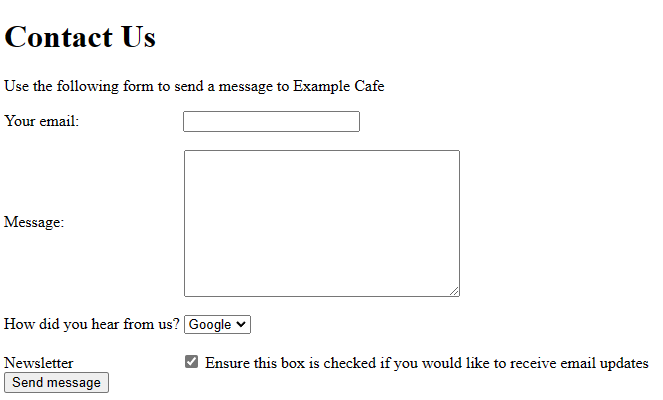
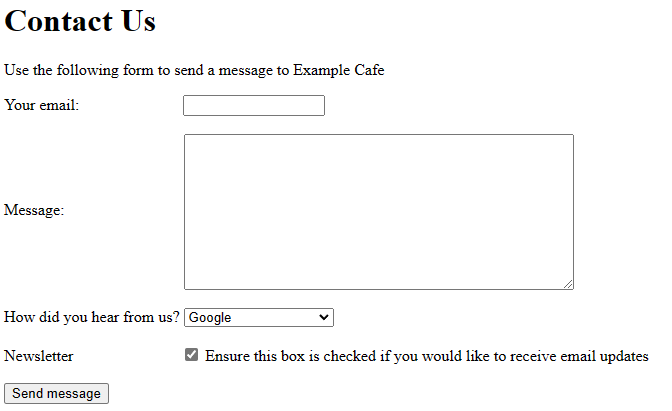
Fix Bai14.html + Fix hinh anh minh chung Bai14.png

diff --git a/DangPhamThienKhai/Tuan01-02/Bai14.html b/DangPhamThienKhai/Tuan01-02/Bai14.html
@@ -5,15 +5,17 @@
         <body>
             <h1>Contact Us</h1>
             <p>Use the following form to send a message to Example Cafe</p>
-            <label for="" > Your email: &emsp;&emsp;&emsp;&emsp;&emsp;&emsp;</label> <input type="text"><br><br>
+            <label for="" > Your email: &emsp;&emsp;&emsp;&emsp;&emsp;&emsp;</label> <input type="text" size="15"><br><br>
             <label for="">Message: &emsp;&emsp;&emsp;&emsp;&emsp;&emsp;&emsp;
-                <textarea style="vertical-align: middle;"></textarea>
+                <textarea style="vertical-align: middle;" rows="10" cols="50"></textarea>
             </label><br><br>
             <label for="">How did you hear from us?</label>
-                <select>
-                    <option value="Google">Google</option>
+                <select style="width: 150px;">
+                    <option>Google</option>
                 </select><br><br>
-            <label for="">Newsletter &emsp;&emsp;&emsp;&emsp;&emsp;&emsp;&nbsp;</label> <input type="checkbox" name="" id="" checked> <label for="">Ensure this box is checked if you would like to receive email updates</label><br><br>
+            <label for="">Newsletter &emsp;&emsp;&emsp;&emsp;&emsp;&emsp;&nbsp;</label>
+            <input type="checkbox" name="" id="" checked style="">
+            <label for="">Ensure this box is checked if you would like to receive email updates</label><br><br>
             <input type="submit" value="Send message">
         </body>
     </head>

diff --git a/DangPhamThienKhai/Tuan01-02/Bai15.html b/DangPhamThienKhai/Tuan01-02/Bai15.html
@@ -3,7 +3,16 @@
     <head>
         <meta charset="UTF-8">
         <body>
-            
+            <h1>Contact Us</h1>
+            <fieldset>
+                <legend>Your message:</legend>
+                <table>
+                    <tr>
+                        <td><label for="emailTo">To: </label></td>
+                        <td><input type="text" name="txtTo" readonly="readonly" id="emailTo" size="20" value="Example cafe"></td>
+                    </tr>
+                </table>
+            </fieldset>
         </body>
     </head>
 </html>
